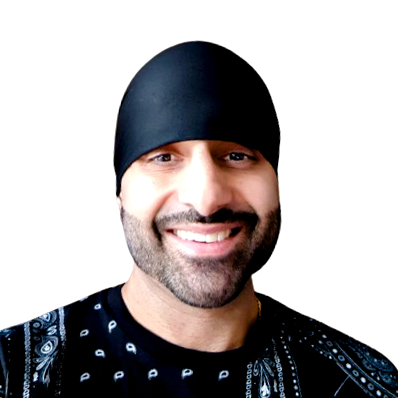
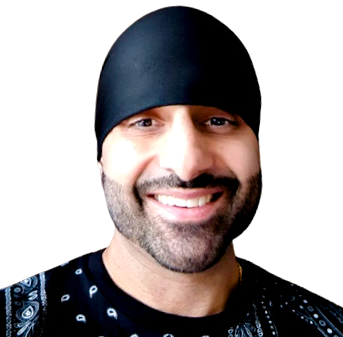
Making few more fixes on the about page wordings {jaz feedback} + fixing the code for the contacts.

diff --git a/_includes/about.html b/_includes/about.html
@@ -13,73 +13,45 @@
         <div class="row flex-lg-row-reverse g-5 py-5">
             <div class="col-5 col-lg-5">
                 <div class="row text-center">
-                    <img src="img/profile/profile.png" loading="lazy" style="border: 0.2em solid white;">
+                    <img src="img/profile/profile.png" loading="lazy" class="aboutmeprofile">
                 </div>
-                <div class="row">
-                    <!-- <img src="img/logo/jazboom.png" class="logo"> -->
-                </div>
-                <!-- <div class="row">
-                    <div class="col">
-                        <button type="button" class="btn btn-info">Primary</button>
-                        <h3 class="lead2"><i class="bi bi-patch-check-fill"></i> Level 3 Personal Training</h3>
-                        <h3 class="lead2"><i class="bi bi-patch-check-fill"></i> Advanced Nutrition For Optimal Health</h3>
-                        <h3 class="lead2"><i class="bi bi-patch-check-fill"></i> Sports Nutrition For Ultimate Performance</h3>
-                        <h3 class="lead2"><i class="bi bi-patch-check-fill"></i> Expert Patient Programme Tutor</h3>
-                    </div>
-                </div>  -->
             </div>
 
-            <div class="col-lg-7 text-center" style="color: black;">
-                <!-- <h2 class="section-heading text-center highlight">About Me</h2>
-                <hr class="light"> -->
+            <div class="col-lg-7 text-center fontblack">
                 <h4 class="lead text-justify">
-                    Hi, I’m <span class="highlight">Jaz</span>, an industry qualified
-                    <span class="highlight">Level 3 Personal Trainer & Nutritionist</span>
-                    with over <span class="highlight">10 years</span>
-                    of experience in the health & fitness industry.
+                    Hi, I’m <span class="highlight">Jaz</span> a Nutritionist/PT with over
+                    <span class="highlight">10 years</span> of experience
+                    in the health & fitness industry.
                 </h4>
                 <h4 class="lead text-justify">
-                    For the last 18 years I have been living with a rare auto-immune condition,
-                    which resulted in me being wheelchair bound, requiring 25 surgeries, and told I may not have kids.
-                    Now I’m a father of three and walking again. I took my health into my own hands to win the battle and
-                    now just manage my unpredictable condition with positive lifestyle changes.
+                    Since 2004 I have been living with a rare auto-immune condition, which resulted in me being
+                    wheelchair bound, requiring multiple surgeries, and told I may not have kids. Now, I am married, a
+                    father of 3 and walking again. I took my health into my own hands to win the battle and now just do
+                    my best to manage my unpredictable rare auto-immune condition, along with epilepsy with positive
+                    lifestyle changes.
                 </h4>
                 <h4 class="lead text-justify">
-                    This brought me to work in the fitness industry to
-                    <span class="highlight"> motivate </span> <i>(while showing empathy)</i>
-                    to get the best results for my clients.
-                    All have <span class="highlight">lost weight</span>, become
+                    The above brought me to work in the industry to inspire,
+                    <span class="highlight"> motivate </span> <i>(while showing empathy)</i> to get
+                    the best results for my clients. All have <span class="highlight">lost weight</span>, become
                     <span class="highlight">healthier, fitter, stronger</span> &
                     <span class="highlight">confident</span>.
                 </h4>
                 <h4 class="lead text-justify">
-                    I recently completed a year of mentoring by 2 leading coaches. I also volunteered as an
-                    <span class="highlight">Expert Patient Programme Tutor</span> in the past, teaching others living
-                    with long-term health conditions, how to manage their health by managing their symptoms.
-                    This allowed them to use the new lifestyle habits to live a healthier & independent life.
+                    I also volunteered as an <span class="highlight">Expert Patient Programme Tutor</span> in the past,
+                    teaching others living with long-term health conditions, how to manage their health by managing
+                    their symptoms. This allowed them to use their new lifestyle habits to live a
+                    healthier & more independent life.
                 </h4>
-                <a href="https://koalendar.com/e/atm-enterprise" target="_blank" class="btn btn-default btn-lg page-scroll">
-                    Get Started Today &raquo;
+                <h4 class="lead text-justify">
+                    Take the first step in reaching your goal, by
+                    <span class="highlight">booking a complementary consultation</span> with me.
+                </h4>
+                <a href="{{ site.appointment_booking_url }}" target="_blank" class="btn btn-default btn-lg page-scroll">
+                    Start Today &raquo;
                 </a>
             </div>
         </div>
-
-        <!-- <hr class="light">
-
-        <div class="row d-flex text-center">
-            <a href="https://www.thegymgroup.com/find-a-gym/east-london-gyms/london-ilford-pioneer-point/" target="_blank" class="btn">
-                <img src="img/logo/gymgroup.png" width="160" height="90" loading="lazy">
-            </a>
-            <a href="https://solgar.co.uk" target="_blank" class="btn">
-                <img src="img/logo/solgar-colored.png" width="160" height="90" loading="lazy">
-            </a>
-            <a href="https://reflexnutrition.com" target="_blank" class="btn">
-                <img src="img/logo/reflex.png" width="160" height="110" loading="lazy">
-            </a>
-            <a href="https://www.nelft.nhs.uk/epp/" target="_blank" class="btn">
-                <img src="img/logo/nelft.png" width="200" height="90" loading="lazy">
-            </a>
-        </div>  -->
     </div>
 
     <img src="img/logo/jazboom.png" class="logowatermark">

diff --git a/_includes/header.html b/_includes/header.html
@@ -9,15 +9,15 @@
 
             <!-- welcome message -->
             <div class="row flex-lg-row-reverse">
-                <!--<h1>IT'S TIME TO PRIORITIZE YOU</h1>
-                <hr>-->
                 <h3 class="lead">Welcome to the <span class="highlight">Jaz Boom Personal Training</span>.
-                    Your own Personal Training & Nutritionist in
+                    Your own Personal Trainer & Nutritionist in
                     <a href="{{ site.address_url }}" target="_blank"><span class="highlight">East London</span></a>.
                 </h3>
-                <h3 class="lead">It is time to give your <span class="highlight">health</span> a <a href=""><span class="highlight">Jaz Boom</span></a> push.</h3>
+                <h3 class="lead">It is time to give your <span class="highlight">health</span> a <a href="#"><span class="highlight">Jaz Boom</span></a> push.</h3>
                 <p></p>
-                <a href="{{ site.appointment_booking_url }}" class="btn btn-primary btn-xl page-scroll lead" target="_blank">Book Your free consultation today</a>
+                <a href="{{ site.appointment_booking_url }}" class="btn btn-primary btn-xl page-scroll lead" target="_blank">
+                    Book Your Complimentary Consultation Today
+                </a>
                 <hr>
             </div>
 
@@ -25,27 +25,23 @@
             <div class="row flex-lg-row-reverse">
                 <div class="social">
                     <a href="{{ site.facebook_url }}" class="btn" target="_blank">
-                        <i class="bi bi-facebook" style="font-size: 3rem;"></i>
+                        <i class="bi bi-facebook socialicon"></i>
                     </a>
 
                     <a href="{{ site.instagram_url }}" class="btn" target="_blank">
-                        <i class="bi bi-instagram" style="font-size: 3rem;"></i>
+                        <i class="bi bi-instagram socialicon"></i>
                     </a>
 
-                    <!-- <a href="#" class="btn" target="_blank">
-                        <i class="bi bi-tiktok" style="font-size: 3rem;"></i>
-                    </a> -->
-
                     <a href="{{ site.whatsapp_url }}" class="btn" target="_blank">
-                        <i class="bi bi-whatsapp" style="font-size: 3rem;"></i>
+                        <i class="bi bi-whatsapp socialicon"></i>
                     </a>
 
                     <a href="mailTo:{{ site.email }}" class="btn" target="_blank">
-                        <i class="bi bi-envelope" style="font-size: 3rem;"></i>
+                        <i class="bi bi-envelope socialicon"></i>
                     </a>
 
                     <a href="{{ site.address_url }}" class="btn" target="_blank">
-                        <i class="bi bi-geo-fill" style="font-size: 3rem;"></i>
+                        <i class="bi bi-geo-fill socialicon"></i>
                     </a>
                 </div>
             </div>

diff --git a/_includes/contact.html b/_includes/contact.html
@@ -11,13 +11,26 @@
         <div class="row">
             <div class="col-md-4">
                 <h2 class="lead highlight text-center">Follow me on social media</h2>
-                <p>
-                    <ul>
-                        <li><a href="{{ site.facebook_url }}" target="_blank">Facebook</a></li>
-                        <li><a href="{{ site.instagram_url }}" target="_blank">Instagram</a></li>
-                        <li><a href="{{ site.whatsapp_url }}" target="_blank">Whatsapp</a></li>
-                    </ul>
-                </p>
+                <div class="row text-center">
+                    <div class="row-sm-2">
+                            <a href="{{ site.facebook_url }}" class="btn" target="_blank">
+                                <i class="bi bi-facebook socialicon-sm"></i>
+                                Jaz BooM Personal Training
+                            </a>
+                    </div>
+                    <div class="row-sm-2">
+                        <a href="{{ site.instagram_url }}" class="btn" target="_blank">
+                            <i class="bi bi-instagram socialicon-sm"></i>
+                            @jaz_boom_pt
+                        </a>
+                    </div>
+                    <div class="row-sm-2">
+                        <a href="{{ site.whatsapp_url }}" class="btn" target="_blank">
+                            <i class="bi bi-whatsapp socialicon-sm"></i>
+                            Whatsapp
+                        </a>
+                    </div>
+                </div>
 
             </div>
             <div class="col-md-4">
@@ -37,7 +50,6 @@
                         <p class="text-center">
                             +44 (0) 7415 547566
                         </p>
-                        <!-- <p class="text-center text-muted">Available only between 07:00 AM to 06:00 PM GMT/BST</p> -->
                     </div>
                     <div class="row">
                         <h2 class="lead highlight text-center">Email</h2>
@@ -49,4 +61,8 @@
         </div>
 
     </div>
+
+
+    <img src="img/logo/jazboom.png" class="logowatermark">
+
 </section>

diff --git a/_includes/footer.html b/_includes/footer.html
@@ -1,11 +1,23 @@
 <section class="bg-dark">
     <div class="container">
-        <h5>
-            &copy; COPYRIGHT 2023. ALL RIGHTS RESERVED / <small class="text-muted"> PRIVACY POLICY / GDPR POLICY </small>
+        <h5 class="highlight text-center">DISCLAIMER</h5>
+        <h5 class="text-muted">
+            The services provided by Jaz Boom Personal Trainer does not gaureentee results in a specified time.
+            Each person's body is different and behaves differently. Hence add more in here.
         </h5>
+        <hr>
         <h5>
-            <small class="text-muted">Website Designed by the ATM Enterprise.</small>
-            <small class="text-muted">Image Copyright // Jekyll Theme Copyright</small>
+            &copy; COPYRIGHT 2023. ALL RIGHTS RESERVED</p>
         </h5>
+        <div class="row">
+            <div class="col-lg-5">
+                <p class="text-muted"> <a href="{{site.baseurl}}/privacy">PRIVACY POLICY</a> | <a href="#">GDPR POLICY</a>
+            </div>
+            <div class="col-lg-7 text-right">
+                <p class="text-muted">Website Designed by the <a href="{{site.developer_webpage}}">ATM Enterprise</a></p>
+            </div>
+        </div>
+
+
     </div>
 </section>

diff --git a/_includes/success.html b/_includes/success.html
@@ -23,12 +23,15 @@
 
             <div class="col-md-5">
 
-             </div>
+            </div>
         </div>
         <div class="row text-center">
-            <a href="https://koalendar.com/e/atm-enterprise" target="_blank" class="btn btn-default btn-md page-scroll">
+            <a href="{{site.baseurl}}/testimonials" class="btn btn-default btn-md page-scroll">
                 Read More Success Stories &raquo;
             </a>
         </div>
     </div>
+
+    <img src="img/logo/jazboom.png" class="logowatermark">
+
 </section>

diff --git a/_pages/onetoonept.html b/_pages/onetoonept.html
@@ -4,11 +4,6 @@ permalink: /onetoonept
 ---
 
 <header>
-<!-- <div class="subheaderimg"> -->
-    <!--<div class="">
-        <img src="img/programs/1.jpg" class="subheaderimg">
-    </div>-->
-
     <div class="header-content">
         <div class="header-content-inner">
             <div class="row flex-lg-row-reverse">
@@ -31,7 +26,6 @@ permalink: /onetoonept
             </div>
         </div>
     </div>
-<!-- </div> -->
 </header>
 
 <div class="container">

diff --git a/_pages/testimonials.html b/_pages/testimonials.html
@@ -1,0 +1,15 @@
+---
+layout: programlayout
+permalink: /testimonials
+---
+
+<section class="bg-dark" id="success">
+    <div class="container">
+        <div class="row">
+            <div class="col-lg-12 text-center">
+                <h2 class="section-heading highlight">Client Success Stories & Testimonials</h2>
+                <hr class="light">
+            </div>
+        </div>
+    </div>
+</section>

diff --git a/_sass/_base.scss b/_sass/_base.scss
@@ -502,5 +502,20 @@ body {
 
 ul > li {
     list-style-type: none;
-    padding-left: 1.5em;
+    /* padding-left: 1.5em; */
+}
+
+.socialicon{
+    font-size: 3rem;
+}
+.socialicon-sm{
+    font-size: 2rem;
+}
+
+.aboutmeprofile{
+    border: 0.2em solid white;
+}
+
+.fontblack{
+    color: black;
 }

diff --git a/_layouts/programlayout.html b/_layouts/programlayout.html
@@ -6,7 +6,11 @@
 <body id="page-top">
 {% include nav.html %}
 {{ content }}
-{% include faq.html %}
+
+{% if page.url != "/testimonials" and page.url != "/privacy" %}
+    {% include faq.html %}
+{% endif %}
+
 {% include footer.html %}
 {% include scripts.html %}
 </body>

diff --git a/_includes/shop.html b/_includes/shop.html
@@ -26,4 +26,5 @@
         </div>
     </div>
 
+    <img src="img/logo/jazboom.png" class="logowatermark">
 </section>

diff --git a/_pages/privacy.html b/_pages/privacy.html
@@ -1,0 +1,4 @@
+---
+layout: programlayout
+permalink: /privacy
+---
